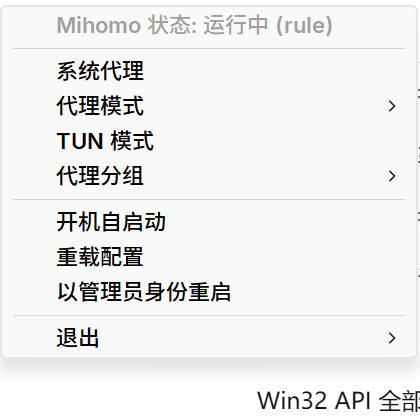
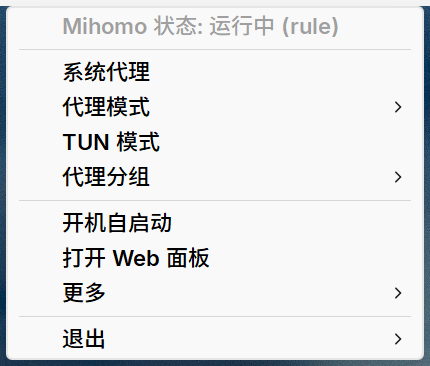
docs: trim the readme to what a user needs, and refresh the menu shots
Known behaviours keep only what a user can see or click; the elevation helper protocol, kernel identity rules and restart internals stay in DESIGN.md (§4/§5/§5.1/§8). The kernel/config/controller section now spells out the precedence chain per target.

The menu screenshots were from 2026-09 (reload config still sat in the root menu). Replace them with the current light and dark menus and drop the native-menu duplicates the design document no longer distinguishes.

diff --git a/README.md b/README.md
@@ -1,25 +1,25 @@
 # mihomo-tray-rs
 
-Windows 系统托盘工具，用 Rust 管理本机 [mihomo](https://github.com/MetaCubeX/mihomo) 内核与其系统级代理设置。
-目标是**二进制小、内存小、依赖少**：原生 Win32 + WinHTTP，不引入 WebView、HTTP 客户端库或 YAML 库。
+一款基于 Rust 的控制本机 [mihomo](https://github.com/MetaCubeX/mihomo) Windows 系统托盘应用。
+**体积小、内存小、依赖少**：原生 Win32 + WinHTTP，不引入 WebView、HTTP 客户端库或 YAML 库。
 
-![托盘菜单](docs/assets/app-menu-light.png)
+![托盘菜单（浅色）](docs/assets/app-menu-light.png)
+
+菜单主题跟随系统，运行中切换明暗即时生效：
+
+![托盘菜单（暗色）](docs/assets/app-menu-dark.png)
 
 ## 特性
 
 - **状态行** — `Mihomo 状态: 运行中 (rule)` / `未运行` / `控制器不可达`
 - **系统代理** — 写 `HKCU\...\Internet Settings` 并通知 WinINet 刷新（只写注册表不会即时生效）
 - **代理模式** — Rule / Global / Direct 单选互斥，勾选当前值
-- **TUN 模式** — 切换后回读 `tun.enable` 确认；内核没有管理员权限时弹一次 UAC，由提权的自身副本把内核换成提权实例后重试
-- **代理分组** — `GLOBAL` 与其余可切换组，逐层子菜单；成员打钩表示当前节点。`Selector`、`URLTest`、`Fallback` 的成员都可点（后两者的点击等于手动固定节点，菜单会多出「自动（取消固定）」）；`LoadBalance` 等真正只读的组灰显但展示当前值
+- **TUN 模式** — 切换后回读 `tun.enable` 确认；内核没有管理员权限时弹一次 UAC
+- **代理分组** — `GLOBAL` 与其余可切换组，逐层子菜单；成员打钩表示当前节点，只读组灰显
 - **开机自启动** — HKCU `Run` 键，不触发 UAC
-- **重载配置 / 关闭所有连接 / 重启内核 / 强制重启内核**（「更多」子菜单）
-  - **重载配置** — `PUT /configs?force=true`，让内核重载它自己那份配置（本程序无需知道 yml 路径）
-  - **关闭所有连接** — `DELETE /connections`，让内核把它当前代理的连接全部丢掉（下个请求会自己重建，不是"保持关闭"的开关）；需要控制器，无则灰显
-  - **重启内核** — `POST /restart`，让内核自己换一个进程：清内部状态、换掉被替换的二进制，配置大改后也常用。Windows 上新进程沿用原来的命令行、环境与令牌，所以**提权内核重启后仍然提权**、不需要 UAC；但它也不改变"内核是谁的"——别人启动的内核重启后依旧是别人的（设置仍不可知）
-  - **强制重启内核** — 结束当前内核，按 `tray.yml` 重新拉起这个程序自己的内核，是"把别人的内核变成我们知道的样子"的手段。内核不是本程序启动的（映像与 `mihomo.path` 不同，或映像读不出来）时会先问一次 Yes/No 并写明映像与 PID；提权内核由提权副本完成"停 + 起"，否则新内核会丢掉管理员权限。不需要控制器（无内核在跑时灰显）
-- **打开 Web 面板** — 用默认浏览器打开面板地址：默认是内核自己的 `external-ui`（`http://<控制器地址>/ui/`），也可在 `tray.yml` 里换成外部托管的面板（如 zashboard / metacubexd），`{host}`/`{port}`/`{secret}` 会替换成当前内核的值
-- **退出** — 「退出并停止 Mihomo」（只结束本程序掌控的实例；内核被 TUN 提权过时会再要一次 UAC）/「仅退出程序」
+- **「更多」子菜单** — `重载配置` / `关闭所有连接` / `重启内核` / `强制重启内核`（各自做什么见「已知行为」）
+- **打开 Web 面板** — 用默认浏览器打开面板地址，可在 `tray.yml` 里换成外部托管的面板（如 zashboard / metacubexd）
+- **退出** — 「退出并停止 Mihomo」（只结束本程序掌控的实例）/「仅退出程序」
 - 单实例互斥；资源管理器重启后自动重新注册托盘图标；菜单主题跟随系统，运行中切换明暗即时生效
 
 ## 环境要求
@@ -37,23 +37,22 @@ cargo test                 # 设置解析 / URL 编码 / 地址解析的单测
 
 `[profile.release]` 使用 `opt-level="z" + lto + codegen-units=1 + panic="abort" + strip`，并**不做**任何压缩打包。应用清单（Common-Controls v6 + supportedOS Win10/11 + per-monitor-v2 DPI）由 `build.rs` 用纯 linker 参数嵌入，决定菜单的圆角/主题/DPI 是否正确。
 
-实测（本机 Win11 x64，rustc 1.98）：
+实测（本机 Win11 x64，rustc 1.98.0，release 构建后冷启动 20 s 的读数）：
 
 | 指标 | 数值 |
 |---|---|
-| 可执行文件 | ~329 KiB (实测 336,896 B) |
-| 空闲私有内存 | ~3.3 MB（含 WinHTTP 内部线程） |
-| 空闲工作集 | ~18 MB（多为共享 DLL 页） |
+| 可执行文件 | ~335 KiB (实测 343,040 B) |
+| 空闲私有内存 | ~2.2 MB（私有工作集；总私有提交 ~2.8 MB，含 WinHTTP 内部线程） |
+| 空闲工作集 | ~15 MB（多为共享 DLL 页） |
 | 依赖 | `windows-sys`、`serde_json`、`winreg`（+ 构建期无依赖） |
 
 ## 设置文件
 
-`tray.yml`：**exe 同目录优先**（便携），否则 `%APPDATA%\mihomo-tray\tray.yml`。
+`tray.yml`：**exe 同目录优先**（便携），否则 `%APPDATA%\mihomo-tray\tray.yml`。首次运行会按当前界面语言写出模板，也可以直接从仓库复制 [`tray_Sample_zh.yml`](tray_Sample_zh.yml) / [`tray_Sample_en.yml`](tray_Sample_en.yml)。
 
-- 同目录那份**必须有内容**才算数：scoop 清单会建一个 0 字节的 `tray.yml`，空文件（以及读不到的文件）不再遮蔽你真正编辑的那份，一律回退 `%APPDATA%`。打包时请把 `tray_Sample_zh.yml` / `tray_Sample_en.yml` 之一装成 `tray.yml`，不要建空文件。
-- 首次运行会按**当前界面语言**写出模板：仓库里的 [`tray_Sample_zh.yml`](tray_Sample_zh.yml) 与 [`tray_Sample_en.yml`](tray_Sample_en.yml) 就是那份文本（二进制里 `include_str!` 同一个文件，不会和仓库漂移），想直接改也可以从仓库复制。
-- 解析器只支持一个文档化的 YAML 子集：顶层键、一层嵌套、`#` 注释、引号标量与内联 `[a, b]` 列表。
-- **路径必须绝对**：盘符路径（`C:\...`）或 UNC 路径（`\\server\share\...`）；`%NAME%` 按 cmd 的规则展开（大小写不敏感，未定义变量原样保留、随即报错）。相对路径和 `~` 会被拒绝并指出是哪一项——mihomo 会拿相对路径去拼自己的工作目录，而由本程序启动的内核，那个目录不是任何人选的。
+- **路径必须绝对**：盘符路径（`C:\...`）或 UNC 路径（`\\server\share\...`）；`%NAME%` 按 cmd 的规则展开。相对路径和 `~` 会被拒绝——内核会拿相对路径去拼它的工作目录，那个目录不是任何人选的。
+- 同目录那份**必须有内容**才算数：scoop 清单会建一个 0 字节的 `tray.yml`，空文件（以及读不到的文件）会回退 `%APPDATA%`。打包时请把示例装成 `tray.yml`，不要建空文件。
+- 只支持一个极简 YAML 子集：顶层键、一层嵌套、`#` 注释、引号标量与内联 `[a, b]` 列表。
 
 ```yaml
 mihomo:
@@ -87,72 +86,54 @@ ui:
 
 界面内置中文（默认）与英文，**语言跟随 Windows 的显示语言，没有单独的开关**。其它语言由使用者自行提供：
 
-1. 在 `tray.yml` 的同目录下建 `lang/`（便携模式下就是 exe 同目录，否则是 `%APPDATA%\mihomo-tray\lang\`）；
-2. 文件名用**系统语言的 BCP-47 标签**，例如 `ja-JP.yml`、`ko-KR.yml`、`de-DE.yml`——程序按这个标签找文件，所以名字必须和系统语言一致；
+1. 在 `tray.yml` 的同目录下建 `lang/`（便携模式下是 exe 同目录，否则是 `%APPDATA%\mihomo-tray\lang\`）；
+2. 文件名用**系统语言的 BCP-47 标签**（查法：PowerShell 里 `(Get-UICulture).Name`），例如 `ja-JP.yml`、`ko-KR.yml`；
 3. 内容照抄仓库里的 [`lang/en-US.yml`](lang/en-US.yml)（自带注释，也是模板），把右侧的值换成译文。
 
-那份 `lang/en-US.yml` 本身就是**生成物**：`build.rs` 每次构建都按 `src/i18n.rs` 里的内置英文表重写标记行以下的部分（标记行以上是手写的说明，不动），改动文案只需要改 `src/i18n.rs`，不用手工同步语言文件；自己写的译文文件（`lang/ja-JP.yml` 等）不受影响。
-
-查自己的系统标签（PowerShell）：
-
-```powershell
-(Get-UICulture).Name
-```
-
-译文可以只写一部分：文件里没有的键回退内置英文，值写成空等同于没写。格式是 `段名:` 加两空格缩进的 `键: 值`，**值取第一个 `:` 之后的全部内容**，所以译文里的 `#`、`:`、撇号都不需要转义，只有整行以 `#` 开头才是注释。`{name}`、`{error}` 这类占位符是运行时填入的，必须原样保留。
-
-没有对应语言文件时回退内置表：`zh`、`en` 按主语言匹配（`en-GB` 也能命中英文表），其它未支持的语言一律用默认的中文表，不会出现空界面。
+格式是 `段名:` 加两空格缩进的 `键: 值`；文件里没有的键回退内置英文，值写成空等同于没写。
 
 ## 内核、配置与控制器来自哪里
 
-**内核会自发现，配置按 mihomo 自己的规则解析，但没有端口探测**：认不出来就报错（并指出该改哪一项），而不是猜一个。
+**内核会自发现，配置按 mihomo 自己的规则解析，没有端口探测**：认不出来就报错（并指出该改哪一项），而不是猜一个。下面是每一项的**优先级顺序**，左边优先、右边兜底：
 
-| 目标 | 来源 |
+| 目标 | 优先级顺序 |
 |---|---|
-| `mihomo.exe` | `tray.yml mihomo.path`（填了就只认它，填错直接报错，不会退回去搜索）；留空则自发现：本程序同目录（含 `bin\`、`core\`）→ `PATH` 各目录（`PATH` 顺序即优先级）。**只找 `mihomo.exe` 这个名字**——内核改了名就在 `mihomo.path` 里写它。命中 `shims\mihomo.exe` 这类 Scoop 启动器时，读同目录 `mihomo.shim` 里的 `path = …`（**只读这一项**）换成真内核，身份判定与停止内核于是都落在真内核上 |
-| 配置目录 | `mihomo.home` → `mihomo.config` 所在目录 → 内核带来的那份配置所在目录 → 内核默认 `%USERPROFILE%\.config\mihomo`（`XDG_CONFIG_HOME` 仅在该目录不存在时参与，与 mihomo 的判定一致） |
-| 配置文件 | `mihomo.config` → `<配置目录>\config.yaml`；`home`/`config` 都留空时先看内核带来的那份——内核在**本程序目录树**里（同目录或 `bin\`/`core\`）时先看本程序所在目录的 `config.yaml`，再看内核同目录的 `config.yaml`，都没有才落到 mihomo 默认目录 |
-| 内核命令行 | 运行中那个内核自己的 argv：`-f`/`-d` 说明它读的是哪份文件，`-ext-ctl`/`-secret` 非空时**覆盖**配置文件（这就是 mihomo 自己的优先级）。同用户的内核可读；提权内核读不到，就跳过这一来源 |
-| 控制器地址 / secret | 上述 argv → `CLASH_OVERRIDE_EXTERNAL_CONTROLLER` / `CLASH_OVERRIDE_SECRET`（这两个环境变量正是同名 flag 的默认值）→ 配置文件里的 `external-controller` / `secret` → `tray.yml` 的 `controller.address` / `secret` |
+| `mihomo.exe` | ① `tray.yml mihomo.path`——**填了就只认它**，不存在或写成相对路径会在启动期报错，不会退回搜索 → ② 自发现：本程序同目录（含 `bin\`、`core\`）→ ③ `PATH` 各目录，`PATH` 顺序即优先级。**只找 `mihomo.exe` 这个名字**（命中 scoop 的 `shims\mihomo.exe` 时按它的 `mihomo.shim` 认到真内核）；内核改了名就在 `mihomo.path` 里写它 |
+| 配置目录 | ① `tray.yml mihomo.home` → ② `mihomo.config` 所在目录 → ③ 内核带来的那份配置所在目录 → ④ 内核默认 `%USERPROFILE%\.config\mihomo`（`XDG_CONFIG_HOME` 只在该目录不存在时参与） |
+| 配置文件 | ① `tray.yml mihomo.config` → ② 配置目录下的 `config.yaml`；`home`/`config` 都留空时先看内核带来的那份——内核在**本程序目录树**里时先看本程序所在目录的 `config.yaml`，再看内核同目录的，都没有才落到内核默认目录。候选按**文件是否存在**挑 |
+| 控制器地址 / secret | ① 运行中内核自己的命令行（`-ext-ctl` / `-secret`，非空时**覆盖**配置文件）→ ② `CLASH_OVERRIDE_EXTERNAL_CONTROLLER` / `CLASH_OVERRIDE_SECRET` 环境变量 → ③ 配置文件里的 `external-controller` / `secret` → ④ `tray.yml controller.address` / `secret` |
+| 系统代理 / TUN | 都不由内核管理，由本程序处理 |
 
-- **逐字段判定**：mihomo 侧某个字段没设置、或读不到，才用 `tray.yml` 的同名字段——`controller.*` 是兜底，不是覆盖。
-- 自发现到的内核会在状态行说明一次（`已自发现内核: <路径>`，约一个轮询周期后消失）；搜索都落空时报「没找到 mihomo.exe」，而不是拿一个来路不明的启动。
-- 内核没开 `external-controller`、或只开了 `-tls`/`-unix`/`-pipe` 控制器，都会明确报出来（不再靠探测兜）。
-- 本程序启动内核时一律显式传 `-d`/`-f`（绝对路径），所以内核读的就是这里读的那一份；提权副本可能以另一个账户运行，`%USERPROFILE%` 会跟着变，显式 `-d` 正是为此。环境变量里的 `CLASH_OVERRIDE_EXTERNAL_CONTROLLER` / `CLASH_OVERRIDE_SECRET` 也会在启动时写进命令行（`-ext-ctl` / `-secret`，语义相同）：**UAC 不传递环境**，而 TUN 提权副本只复用命令行，写出来才能保证提权后还是同一个控制器。
-- 唯一看不到的情况：**内核由别的启动器拉起、用 `-ext-ctl`/`-secret` 覆盖了配置、而它的命令行又读不到**（提权）。这时会报不可达/读不到内核配置，请在 `controller.*` 里写实际值。
+几条与使用直接相关的：
+
+- `controller.*` 是**兜底而非覆盖**，逐字段判定：只有内核那边没设置、或读不到时才会用 `tray.yml` 的值。
+- 控制器不可达时状态行显示「控制器不可达」，模式 / TUN / 分组项灰显；此时**不会**自动重启内核，只在 `mihomo.auto_start` 为真且内核进程确实不存在时才拉起。
+- 自发现到内核时状态行会说明一次（`已自发现内核: <路径>`）；全都落空时报「没找到 mihomo.exe」。
+- 看不到的情况只有一种：**内核由别的启动器拉起、用命令行覆盖了控制器、而它的命令行又读不到**（提权内核就是这种）。这时请把实际值写进 `controller.*`；也正因为如此，控制器只按明文 http 访问（写 `https://` 会被明确拒绝）。
+- 提权之后 `%USERPROFILE%` 等环境会变，所以本程序启动内核时一律显式传 `-d`/`-f`（绝对路径）：内核读的就是上面解析出来的那一份。
 
 ## 已知行为
 
-- **重载配置不需要知道 yml 路径**：`PUT /configs?force=true` 且 `path` 为空时，内核回落到自己启动时的配置文件；`force=true` 才会重建 inbound 监听器。
-- **TUN 失败不会返回 HTTP 错误**（内核只记日志并把 `enable` 置 false），因此本程序以回读 `GET /configs` 的结果为准：回读仍是 `false` 时，用 `ShellExecuteExW("runas")` 启动自身的一个隐藏副本（`--kernel-start-elevated <pid>`），由它停掉旧内核、并按**那个内核自己的命令行**重新启动，然后重试。取消 UAC 没有任何副作用——终止旧内核发生在提权之后。
-- **提权副本自己从 PID 读映像，启动参数则由托盘给出**：映像路径由副本从那个进程读出来（`NtQueryInformationProcess`，提权之后连托盘读不到的提权内核也能读），所以副本永远不会"以管理员身份运行任意程序"——它只能启动那个 PID 自己的映像。**不看映像名**：内核可以改名，`mihomo.path` 想指谁就指谁（名字检查本来也拦不住谁：调用方能给自己的文件起名 `mihomo.exe`）。启动参数（`--kernel-replace-elevated <pid> <参数…>`）来自托盘，因为托盘的 `tray.yml` 是唯一的配置来源，而提权副本以另一个账户运行时未必看得见它；换成副本自己读，反而会出现"两边读到不同配置"。退出码 = 新内核 PID 为正，失败为负（`-2` 参数/PID 无效、`-3` 停不干净、`-4` 启不来、`-5` 无权、`-6` 读不到命令行）；不走文件/管道回传，因为"由调用者指定路径"就等于给低权限进程一个让管理员写文件的口子。
-- **内核身份按「记录的 PID → 路径身份」判定**：提权后托盘读不到那个进程的映像路径，所以后续操作以副本回传的 PID 为准；没有记录时才比路径，而且比较必须**归一化**（`canonicalize` + 忽略大小写）——scoop 的 `apps\<app>\current\mihomo.exe` 是 junction，进程报告的是解析后的 `apps\<app>\<版本>\mihomo.exe`，直接比字符串永远不相等（这正是"提权后内核停不掉"的根因）。
-- **本程序自己启动内核时总是显式传 `-d <配置目录> -f <配置文件>`**（都由 `tray.yml` 解析成绝对路径），所以内核读的就是这里读的那一份；提权副本可能以另一个账户运行，`%USERPROFILE%` 和 mihomo 自己的默认配置目录都会跟着变。`mihomo.args` 里的相对路径按 **mihomo.exe 所在目录**解析（启动时显式设了工作目录）。
-- **内核一旦提权就一直提权**（TUN 生效之后）：「退出并停止 Mihomo」会再弹一次 UAC，由提权副本按记录下来的 PID 结束它；取消则只提示「提权启动被取消或失败」，程序不退出。
-- **系统代理与 TUN 都不由 mihomo 核心管理**，`Internet Settings` 与监听端口分别由本程序处理；`mixed-port` 从控制器实时读取，不解析 yml。
-- 长列表由系统滚动箭头 + 鼠标滚轮 + 方向键处理（构建菜单时设置了 `MIM_MAXHEIGHT`，这也是官方建议的做法——默认以屏幕高度为上限在多显示器下会失效）。
+原理见 [docs/DESIGN.md](docs/DESIGN.md)（§4、§5、§5.1、§8）。
+
+- **TUN 需要管理员权限**：内核建不起 Wintun 时弹一次 UAC，由本程序的一个隐藏副本把内核换成提权实例后重试；取消 UAC 只是这次不生效，没有副作用。
+- **内核一旦提权就一直提权**（TUN 生效之后）：「退出并停止 Mihomo」会再弹一次 UAC；取消则程序继续运行。
 - 只读组（`LoadBalance` 与普通节点）的成员不可点击，仅展示当前值。
-- `URLTest`/`Fallback` 组被点选后会进入「已固定」状态（组名带 `· 已固定`），此时内核不再自动测速换节点；用组内的「自动（取消固定）」（`DELETE /proxies/{name}`）恢复自动选择。固定状态由内核写进它自己的缓存，重载配置也会清除。
-- **面板是本程序之外的东西**：「打开 Web 面板」只是把地址交给默认浏览器。要内核自己伺服一份静态面板，得在 mihomo 里配 `external-ui`（那份文件挂在控制器的 `/ui/` 下，正是默认地址）；用外部托管的面板（zashboard、metacubexd 等）则**不需要改 mihomo**，只要 `external-controller` 可达、在面板里填地址与 secret 即可——但那个页面与内核不同源时，mihomo 的 `external-controller-cors.allow-origins` 必须放行该来源，否则浏览器会拦在 CORS 上。控制器不可达时这一项与其他操作项一样灰显。
-- **「重启内核」与「强制重启内核」不是一回事**：
-  - `重启内核` 是 `POST /restart`，内核自己换一个进程。内核先回 `{"status":"ok"}` 再关进程，所以响应成功不等于新内核已经应答——本程序清掉旧进程的记录（PID 与子句柄）、重新解析控制器，并在 5 s 内等它回话，超时报「内核重启后没有应答」。控制器有约 0.4 s 的不可用窗口，属正常。`embedMode` 的 CLI 内核没有这条路由，会报控制器错误。
-  - `强制重启内核` 是**另一个动作**：结束当前内核，按 `tray.yml` 重新拉起。设置只有在这一步才变得可知——命令行的东西在进程创建时就定死了，所以 `重启内核` 对"别人启动的内核"无能为力。它不需要控制器；没有内核在跑时灰显。内核不是本程序启动的（或映像读不出来）会先弹一次 Yes/No，默认按钮是「否」。提权的内核由提权副本 `--kernel-replace-elevated <pid> <参数…>` 完成"停 + 起"：映像沿用那个内核自己的（提权时读得到），配置与参数换成 `tray.yml` 解析出来的这一份。
-  - 两者都**不清 `controller.*`**：它是"不动内核、只改连接目标"的兜底，清掉会让无控制器的机器失去退路。
-- **控制器只按明文 http 访问**：`controller.address` 写 `host:port` 或 `http://host:port` 都行。写 `https://host:port` 会被**明确拒绝**（菜单显示「控制器地址用了 https，本程序没有 TLS 客户端」），不会去掉前缀改按明文连——那会把明文请求发到一个只答 TLS 的端口上。控制器通常就在本机回环上；需要跨机加密时请自行套 SSH 隧道，或改用托管面板的 https 地址（那只影响浏览器，不影响本程序与内核之间的连接）。
+- `URLTest`/`Fallback` 组被点选后会进入「已固定」状态（组名带 `· 已固定`），此时内核不再自动测速换节点；用组内的「自动（取消固定）」恢复。重载配置会清除固定。
+- **「重启内核」与「强制重启内核」不是一回事**：前者让内核自己换一个进程（提权保持、不需要 UAC，也管不到别人启动的内核）；后者结束当前内核、按 `tray.yml` 重新拉起，是"把别人的内核变成我们知道的样子"的手段，没有内核在跑时灰显。
 - Windows 11 默认把新的托盘图标收进溢出区，首次运行需要手动把它拖到任务栏固定。
-- 本程序（托盘）始终以普通权限运行；只有 TUN 需要管理员权限：点「TUN 模式」而内核没能建起 Wintun 时，弹一次 UAC 让内核变成提权实例，托盘自身不提权。
 
 ## 与 Go 版 [`mihomo-tray`](https://github.com/aoiyukizakura/mihomo-tray) 的差异
 
 指 [aoiyukizakura/mihomo-tray](https://github.com/aoiyukizakura/mihomo-tray)（Go + systray，本程序即其思路的 Rust 重写）。相对它的不同：
 
-- **托盘自身不提权**：Go 版启动时就用 `ShellExecute("runas")` 把整个程序提权；这里托盘始终普通权限，只有 TUN 需要管理员，由一次性提权副本重启内核（见「已知行为」）。
-- **停止内核只结束本程序启动或路径匹配的实例**：Go 版用 `taskkill /IM mihomo.exe`，会误杀其他实例。
-- **内核与配置优先由 `tray.yml` 指明**：Go 版固定读 `%USERPROFILE%\.config\mihomo\config.yaml`、只在 PATH / 程序目录 / `~/scoop/shims` 找内核；这里 `mihomo.home` / `mihomo.config` 一旦填写就是唯一来源，留空时内核走自发现（程序目录 → `PATH`，含捆绑布局的 `bin\`/`core\`，并跟随 Scoop shim），配置则按上面的顺序解析，控制器按 mihomo 自己的优先级解析（见「内核、配置与控制器来自哪里」）。
-- **新增**：代理分组子菜单（含 `URLTest`/`Fallback` 固定与取消固定）、「打开 Web 面板」、界面语言表与 `lang/*.yml`、可配轮询间隔（Go 版固定 5 s）、「更多」子菜单里的 `重载配置`/`关闭所有连接`（`DELETE /connections`）/`重启内核`（`POST /restart`）/`强制重启内核`（按 `tray.yml` 归一别人的内核）。
+- **托盘自身不提权**：Go 版启动时就用 `ShellExecute("runas")` 把整个程序提权；这里托盘始终普通权限，只有 TUN 需要管理员。
+- **停止内核是选择性的**：只结束本程序启动、或路径与本程序发现结果一致的实例，不会按映像名批量结束。
+- **内核与配置优先由 `tray.yml` 指明**：Go 版固定读 `%USERPROFILE%\.config\mihomo\config.yaml`、只在 PATH / 程序目录 / `~/scoop/shims` 找内核；这里的顺序见「内核、配置与控制器来自哪里」。
+- **新增**：代理分组子菜单（含固定与取消固定）、「打开 Web 面板」、`lang/*.yml` 语言文件、可配轮询间隔（Go 版固定 5 s）、「更多」子菜单（见「特性」）。
 - **同样不做**（相对 CFW 式图形客户端）：设置窗口、自绘弹窗、节点延迟色点、流量曲线、订阅刷新、脚本执行；需要图形化的设置就用内核自己的面板（菜单里的「打开 Web 面板」）。
 
-设计文档见 [docs/DESIGN.md](docs/DESIGN.md)。
+更细的设计说明见 [docs/DESIGN.md](docs/DESIGN.md)。
 
 ## 许可证
 

diff --git a/docs/ROADMAP.md b/docs/ROADMAP.md
@@ -8,9 +8,9 @@ Phase 1（MVP）已实现并真机验证：
 
 - 9 项菜单功能（状态行 / 系统代理 / 代理模式 / TUN / 代理分组 / 开机自启动 / 重载配置 / 打开 Web 面板 / 退出两项）全部可用
 - 内核自发现（同目录/`bin`/`core` → `PATH`，只搜 `mihomo.exe` 这个名字，命中 Scoop shim 时按 `mihomo.shim` 的 `path` 换成真内核；`mihomo.path` 填了就只认它，改名内核也支持），配置/控制器按 mihomo 自己的规则解析（`mihomo.home`/`config` 或内核带来的那份 + 运行内核的 argv → 环境变量 → 配置文件 → `controller.*` 兜底），没有端口探测；「配置文件里没有 `external-controller`、地址由命令行或环境变量注入」的机器同样能定位
-- `cargo fmt --check`、`cargo clippy --release --all-targets`、`cargo test --release` 全绿（79 个单测）
-- 实测：exe 388.5 KiB（397,824 B；本轮 11 条差距修复 +2 条文案后又测了一次，之前是 381,952 B）；空闲私有内存 2.6–3.4 MB，工作集 ~15 MB
-- 验证方式：真机运行截图（`assets/app-menu-light.png`）+ 分组数据逐项比对 live API + 长列表滚动箭头（`assets/native-menu-scroll-arrows.png`）
+- `cargo fmt --check`、`cargo clippy --release --all-targets`、`cargo test --release` 全绿（89 个单测）
+- 实测（0.2.1，rustc 1.98.0）：exe 343,040 B（≈335 KiB）；空闲私有内存 2.2 MB（私有工作集）、工作集 ~15 MB（冷启动 20 s 的读数，见 [README.md](../README.md)）
+- 验证方式：真机运行截图 [`app-menu-light.png`](assets/app-menu-light.png) / [`app-menu-dark.png`](assets/app-menu-dark.png) + 分组数据逐项比对 live API + 长列表滚动箭头（[`native-menu-scroll-arrows.png`](assets/native-menu-scroll-arrows.png)）
 
 ## 需要人工点一遍的清单（自动化覆盖不到）
 

diff --git a/docs/DESIGN.md b/docs/DESIGN.md
@@ -276,7 +276,7 @@ ui:
 
 - `[profile.release]`：`opt-level="z"`、`lto=true`、`codegen-units=1`、`panic="abort"`、`strip=true`、`incremental=false`。
 - `#![windows_subsystem = "windows"]`（无控制台窗口）。
-- 应用清单：`Microsoft.Windows.Common-Controls 6.0` + `supportedOS {8e0f7a12-…}`（Win10/11）+ `permonitorv2`。这决定菜单圆角、主题与 DPI 是否正确——已实测（见 `docs/assets/native-menu-light.png`、`docs/assets/native-menu-dark.png`）。
+- 应用清单：`Microsoft.Windows.Common-Controls 6.0` + `supportedOS {8e0f7a12-…}`（Win10/11）+ `permonitorv2`。这决定菜单圆角、主题与 DPI 是否正确——已实测（见 `docs/assets/app-menu-light.png`、`docs/assets/app-menu-dark.png`）。
 - 清单以外部文件 `<exe>.name.manifest` 或 `build.rs` 嵌入，Phase 1 决定（外部清单便于调试）。
 
 ---
